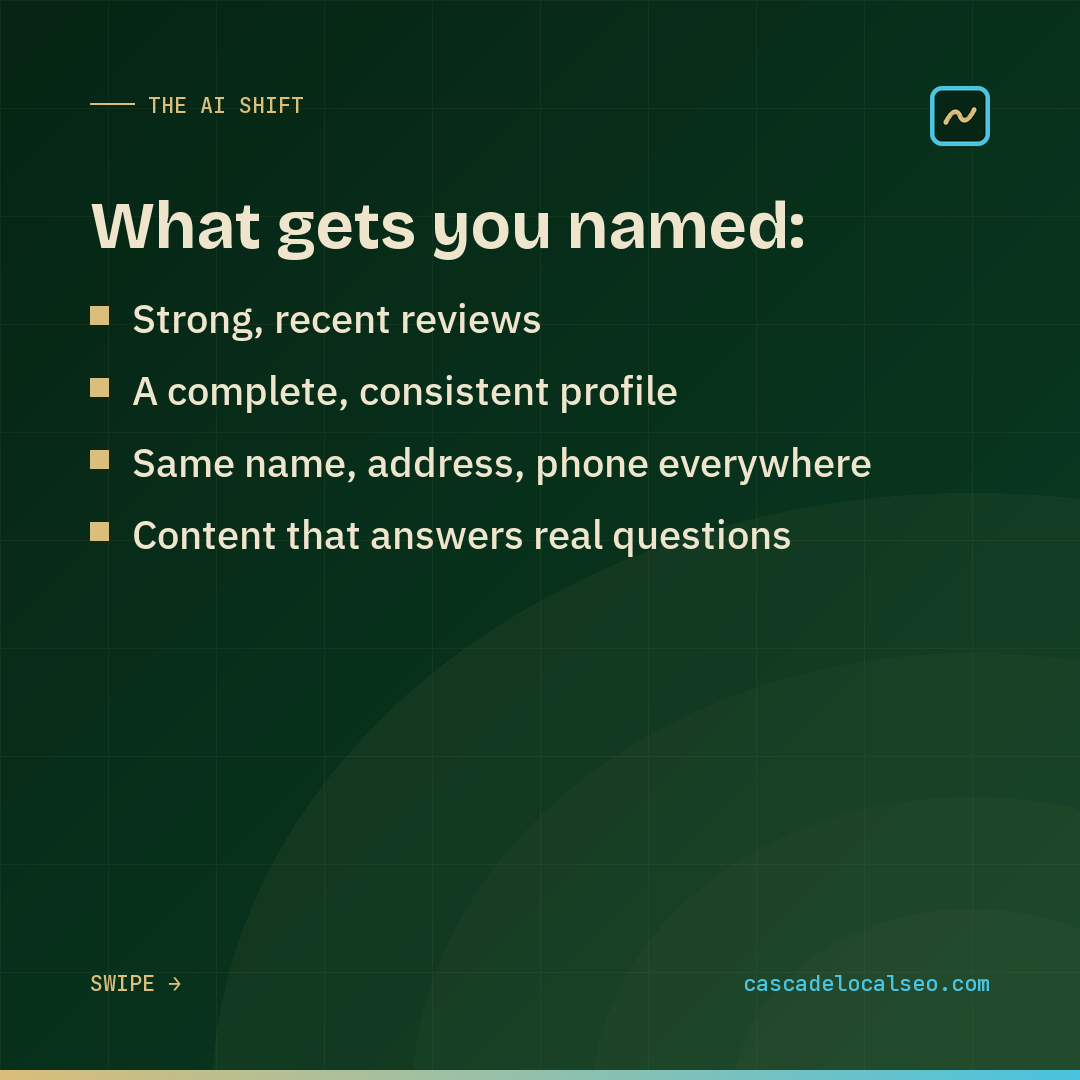
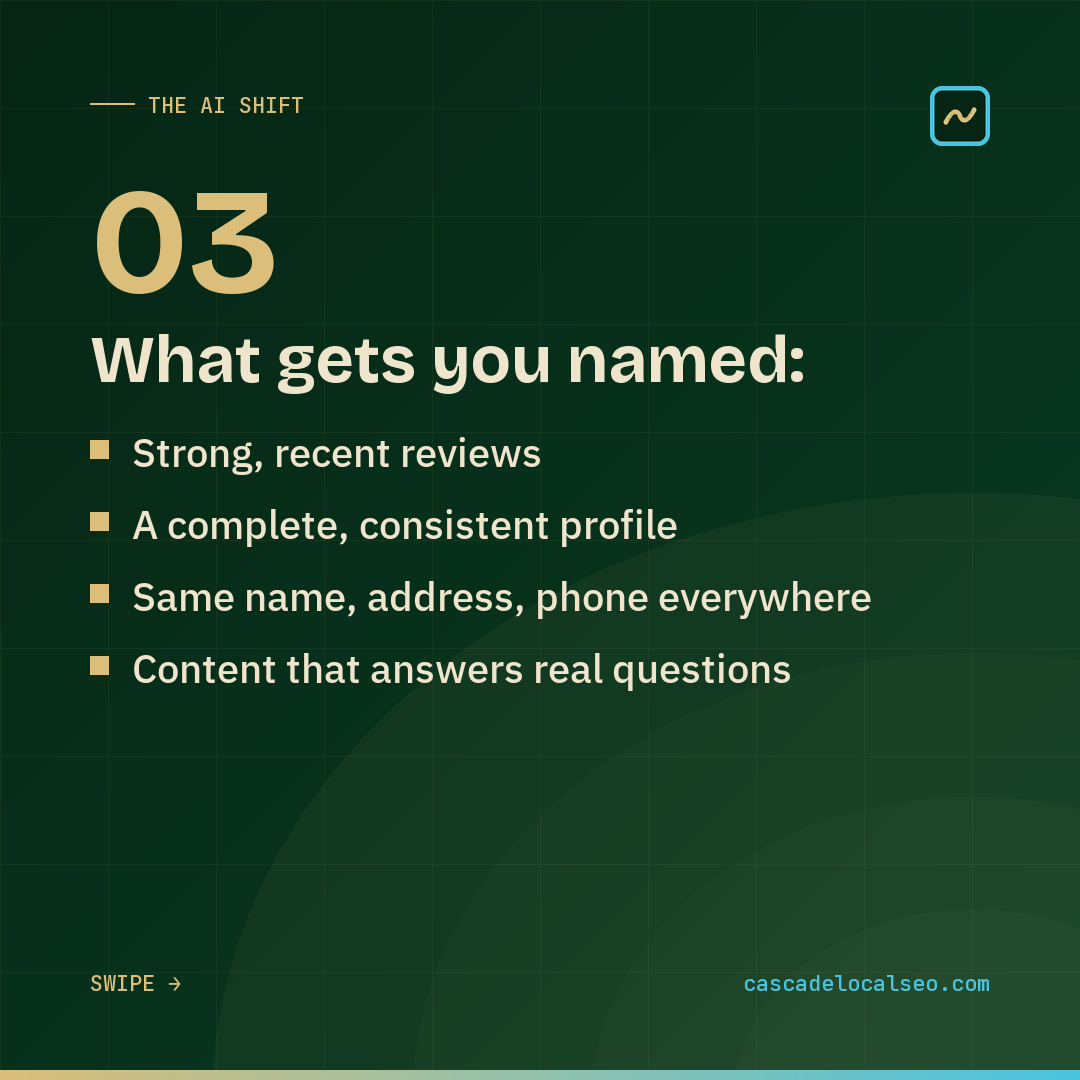
IG Post 3 slide 3: add the "03" index to match 01/02
make_list_slide gains an optional index_label; ig-3-slide-03-list now passes "03"
so the AI-shift carousel's third slide carries the same big numbered index as the
two numbered point slides before it. Layout verified (index + title + 4 bullets fit).

Changed region(s): [[0.0611, 0.1528, 0.825, 0.5806], [0.0611, 0.6111, 0.7333, 0.6417]]

diff --git a/scripts/generate_social_posts.py b/scripts/generate_social_posts.py
@@ -168,13 +168,19 @@ def make_slide(filename, kicker, index_label, title, body, accent=GOLD):
     print(f"wrote {out} {img.size}")
 
 
-def make_list_slide(filename, kicker, title, items, accent=GOLD):
-    """Title + bulleted list carousel slide (1080x1080)."""
+def make_list_slide(filename, kicker, title, items, accent=GOLD, index_label=""):
+    """Title + bulleted list carousel slide (1080x1080). Optional big index_label
+    (e.g. '03') matches the numbered point slides (make_slide)."""
     W = H = 1080
     img = base_bg(W, H); d = ImageDraw.Draw(img)
     eyebrow_row(d, kicker, PAD, W - 2 * PAD)
     corner_mark(d, img)
-    tf = font(BRICOLAGE_BOLD, 66); ty = PAD + 96
+    if index_label:
+        d.text((PAD, PAD + 62), index_label, font=font(BRICOLAGE_BOLD, 150), fill=accent)
+        ty = PAD + 62 + 168
+    else:
+        ty = PAD + 96
+    tf = font(BRICOLAGE_BOLD, 66)
     for ln in wrap(d, title, tf, W - 2 * PAD):
         d.text((PAD, ty), ln, font=tf, fill=INK); ty += 76
     ty += 30
@@ -333,7 +339,8 @@ def main():
                "You're either in the short list it reads back, or you're invisible. There is no page 2 in an AI answer.", GOLD)
     make_list_slide("ig-3-slide-03-list.png", K3, "What gets you named:",
                     ["Strong, recent reviews", "A complete, consistent profile",
-                     "Same name, address, phone everywhere", "Content that answers real questions"], GOLD)
+                     "Same name, address, phone everywhere", "Content that answers real questions"], GOLD,
+                    index_label="03")
     make_cta_slide("ig-3-slide-04-cta.png", K3, "We build for found AND recommended.",
                    "Your free audit includes an AI-readiness score, so you know where you stand.",
                    "Free audit · link in bio", GOLD)